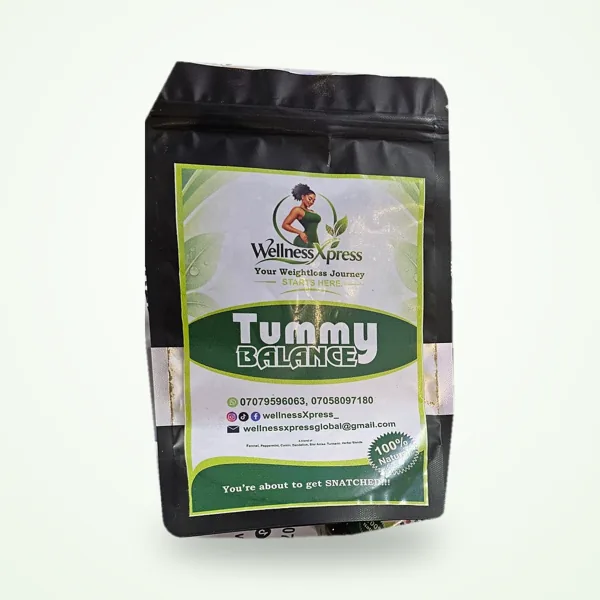
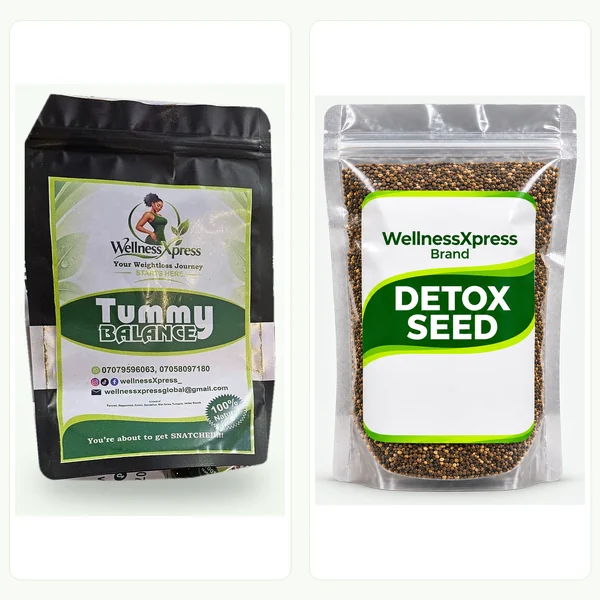
Add Detox Seed visual to Tummy Set

diff --git a/src/lib/seed.ts b/src/lib/seed.ts
@@ -127,7 +127,7 @@ const catalogue: P[] = [
     short: "Tummy Balance (Big) and Detox Seed.",
     description: "The Tummy Set contains Tummy Balance (Big) and Detox Seed.",
     images: [`${IMG}/combos/tummy-set.webp`], status: "published", featured: true,
-    review: "₦25,500 from list B. No Detox Seed photograph supplied, so the set image shows Tummy Balance only. Upload a Detox Seed photo when available.",
+    review: "₦25,500 from list B. The Detox Seed artwork is an edited visual reference; confirm it matches the actual package before treating the packaging as final.",
     variants: [{ label: "Set", price: 25500, source: B }],
     items: [{ slug: "tummy-balance", name: "Tummy Balance", size: "Big" }, { slug: "detox-seed", name: "Detox Seed" }],
   },
